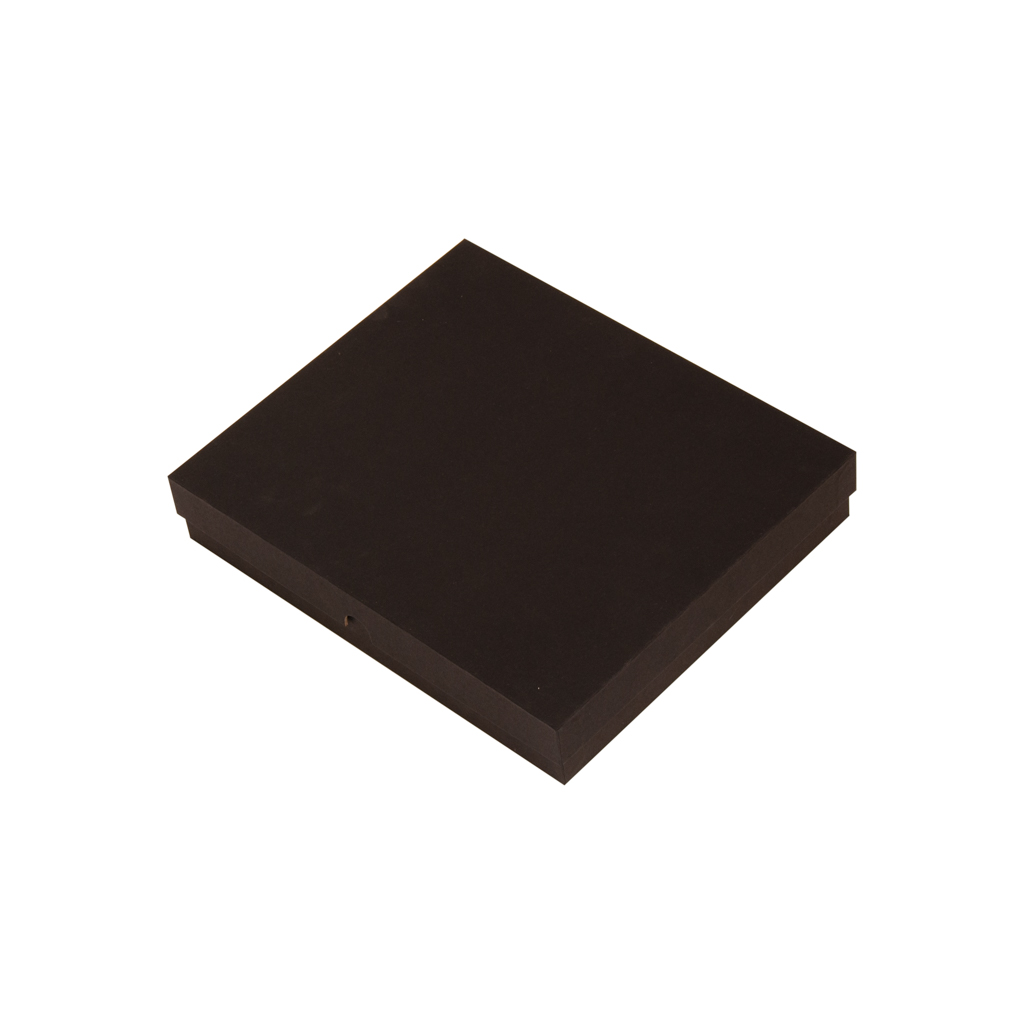
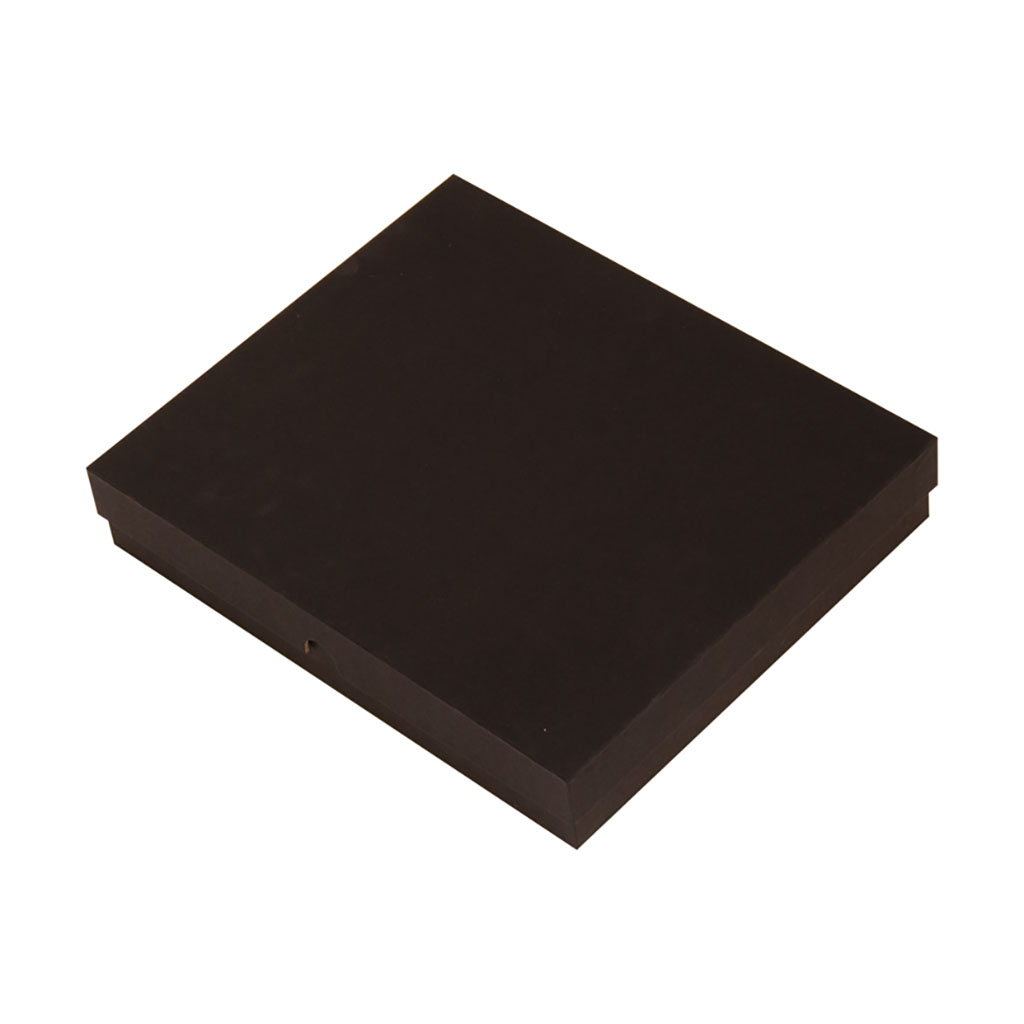
Photo changes and External Ref change
Changed some photos to look more proportionate as well as the colour of the midi box white. I also changed the Cart Controller so that the external ref of an order has a random 8 character string after it, so they should all be unique. I also changed the product description so that in the personaliser it doesn't show the html tags too.

Changed region(s): [[0.0625, 0.1562, 0.9375, 0.8438]]

diff --git a/app/Http/Controllers/CartController.php b/app/Http/Controllers/CartController.php
@@ -169,7 +169,7 @@ class CartController extends Controller
     
     private function gatewayPrepare(Request $request, $compname){
         $gatewayArray = [
-            'external_ref' => $request->input('compname'),
+            'external_ref' => $request->input('compname') . '-' . str_random(8),
             'company_ref_id' => env('GATEWAY_COMPANY'),
             'sale_datetime' => date('Y-m-d H:i:s'),
             

diff --git a/app/Http/Controllers/ProductController.php b/app/Http/Controllers/ProductController.php
@@ -164,7 +164,7 @@ class ProductController extends Controller
 		
 		$epaArray = [
 			'name' => $product->name,
-			'description' => $product->description,
+			'description' => strip_tags($product->description),
 		];
 		$epaJson = json_encode($epaArray);
 		
